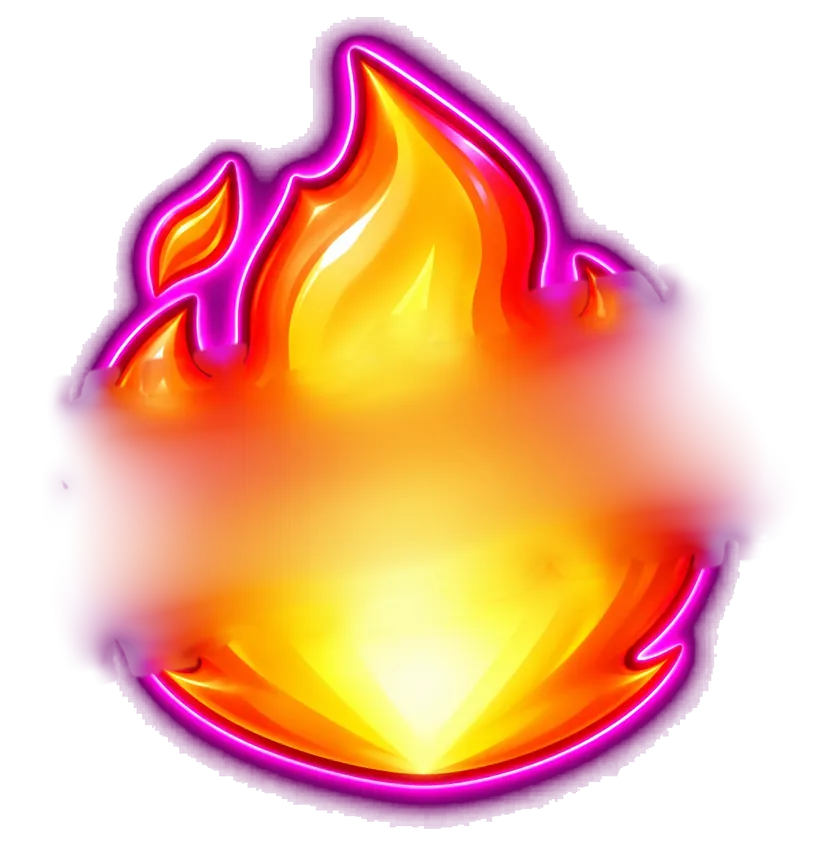
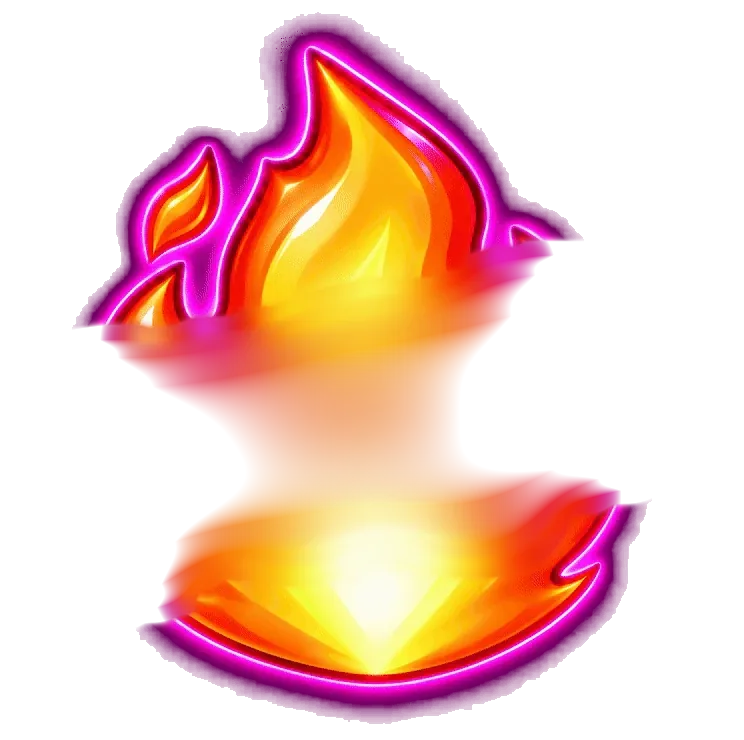
Use the new pointing-hand FUEGOTE artwork with the animated flame
The home button swaps in the new "Que se haga el FUEGOTE!!" image with
the pointing hand. The flame keeps the displacement/lick animation on
its own layer; lettering and hand stay on a static masked layer that
breathes gently as a "press me" cue. Same create-room action.

Also point the catalog test at the join form's current layout.

Claude-Session: https://claude.ai/code/session_01TvAFQqhA8NhGsPhwnrAqq8

diff --git a/apps/web/styles.css b/apps/web/styles.css
@@ -506,11 +506,12 @@ body:has(.game-page) {
    wobbles under a static lettering layer, so the words stay readable while it burns. */
 .menu-actions { justify-items:center; }
 .fuegote-button {
- position:relative; isolation:isolate; display:block; width:clamp(210px,min(76vw,36svh),340px); aspect-ratio:840 / 846; padding:0;
+ position:relative; isolation:isolate; display:block; width:clamp(210px,min(76vw,36svh),340px); aspect-ratio:744 / 740; padding:0;
  border:0; background:none; cursor:pointer; -webkit-tap-highlight-color:transparent; transition:transform .18s;
 }
 .fuegote-art { position:relative; display:block; width:100%; height:100%; overflow:visible; animation:fuegote-glow 1.9s ease-in-out infinite; }
 .fuegote-fire { filter:url(#fuegote-fire); transform-box:fill-box; transform-origin:50% 96%; animation:fuegote-lick 1.25s ease-in-out infinite; }
+.fuegote-words { transform-box:fill-box; transform-origin:50% 55%; animation:fuegote-press 1.9s ease-in-out infinite; }
 .fuegote-heat { position:absolute; inset:14% 12% 4%; z-index:-1; border-radius:50%; background:radial-gradient(closest-side,#ffb13b8c,#ff4d6d40 55%,transparent); filter:blur(14px); animation:fuegote-heat 1.9s ease-in-out infinite; }
 .fuegote-embers { position:absolute; inset:0 10% 40%; pointer-events:none; }
 .fuegote-embers i { position:absolute; left:var(--x); bottom:0; width:var(--size); height:var(--size); border-radius:50%; background:radial-gradient(circle,#fff6c4,#ffb13b 45%,#ff5a2a); box-shadow:0 0 8px 2px #ff8a3a99; opacity:0; animation:fuegote-ember var(--time) ease-out var(--delay) infinite; }
@@ -519,9 +520,10 @@ body:has(.game-page) {
 @media(hover:hover) { .fuegote-button:hover { transform:translateY(-3px) scale(1.03); } }
 @keyframes fuegote-glow { 0%,100% { filter:drop-shadow(0 0 10px #ff3fb455) drop-shadow(0 6px 5px #160d2680); } 50% { filter:drop-shadow(0 0 22px #ff6a3dbb) drop-shadow(0 6px 5px #160d2680); } }
 @keyframes fuegote-lick { 0%,100% { transform:scale(1,1); } 25% { transform:scale(1.012,1.035) skewX(-.8deg); } 55% { transform:scale(.992,1.015) skewX(.6deg); } 80% { transform:scale(1.008,1.045) skewX(-.4deg); } }
+@keyframes fuegote-press { 0%,100% { transform:scale(1); } 50% { transform:scale(1.025); } }
 @keyframes fuegote-heat { 0%,100% { opacity:.65; transform:scale(.96); } 50% { opacity:1; transform:scale(1.06); } }
 @keyframes fuegote-ember { 0% { opacity:0; transform:translate(0,0) scale(1); } 15% { opacity:1; } 100% { opacity:0; transform:translate(var(--drift),-110px) scale(.3); } }
-@media(prefers-reduced-motion:reduce) { .fuegote-art,.fuegote-fire,.fuegote-heat { animation:none; } .fuegote-fire { filter:none; } .fuegote-embers { display:none; } }
+@media(prefers-reduced-motion:reduce) { .fuegote-art,.fuegote-fire,.fuegote-heat,.fuegote-words { animation:none; } .fuegote-fire { filter:none; } .fuegote-embers { display:none; } }
 @media(min-width:701px) { .menu-actions { justify-items:start; } }
 .menu-home .menu-wrap { min-height:100svh; display:grid; align-items:center; }
 .menu-home .menu-hero { width:100%; padding-block:40px; }

diff --git a/apps/web/app.js b/apps/web/app.js
@@ -75,13 +75,13 @@ const FUEGOTE_EMBERS = [[18,0,7,2.6,-14],[30,1.1,5,3.1,-6],[44,.5,8,2.3,4],[56,1
 function renderFuegote() {
   const embers = FUEGOTE_EMBERS.map(([x, delay, size, time, drift]) => `<i style="--x:${x}%;--delay:${delay}s;--size:${size}px;--time:${time}s;--drift:${drift}px"></i>`).join('');
   return `<button class="fuegote-button" data-action="open-host" aria-label="Que se haga el fuegote"><span class="fuegote-heat" aria-hidden="true"></span>
-    <svg class="fuegote-art" viewBox="0 0 840 846" aria-hidden="true" focusable="false"><defs>
+    <svg class="fuegote-art" viewBox="0 0 744 740" aria-hidden="true" focusable="false"><defs>
       <filter id="fuegote-fire" x="-6%" y="-6%" width="112%" height="112%" color-interpolation-filters="sRGB">
         <feTurbulence type="fractalNoise" baseFrequency="0.005 0.013" numOctaves="1" seed="7"><animate attributeName="baseFrequency" values="0.005 0.013;0.0065 0.018;0.0045 0.015;0.005 0.013" dur="2.4s" repeatCount="indefinite"/></feTurbulence>
         <feDisplacementMap in="SourceGraphic" scale="30" xChannelSelector="R" yChannelSelector="G"><animate attributeName="scale" values="22;40;28;36;22" dur="1.7s" repeatCount="indefinite"/></feDisplacementMap>
       </filter>
-      <mask id="fuegote-letters" maskUnits="userSpaceOnUse" x="0" y="0" width="840" height="846"><image href="./assets/fuegote-text-mask.png" width="840" height="846" preserveAspectRatio="none"/></mask>
-    </defs><image class="fuegote-fire" href="./assets/fuegote-fire.webp" width="840" height="846"/><image href="./assets/fuegote.webp" width="840" height="846" mask="url(#fuegote-letters)"/></svg>
+      <mask id="fuegote-letters" maskUnits="userSpaceOnUse" x="0" y="0" width="744" height="740"><image href="./assets/fuegote-text-mask.png" width="744" height="740" preserveAspectRatio="none"/></mask>
+    </defs><image class="fuegote-fire" href="./assets/fuegote-fire.webp" width="744" height="740"/><g class="fuegote-words"><image href="./assets/fuegote.webp" width="744" height="740" mask="url(#fuegote-letters)"/></g></svg>
     <span class="fuegote-embers" aria-hidden="true">${embers}</span></button>`;
 }
 function renderHome() {
